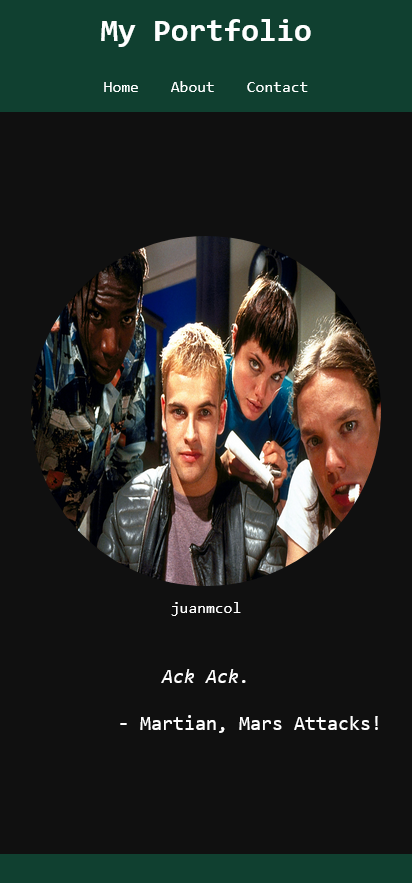
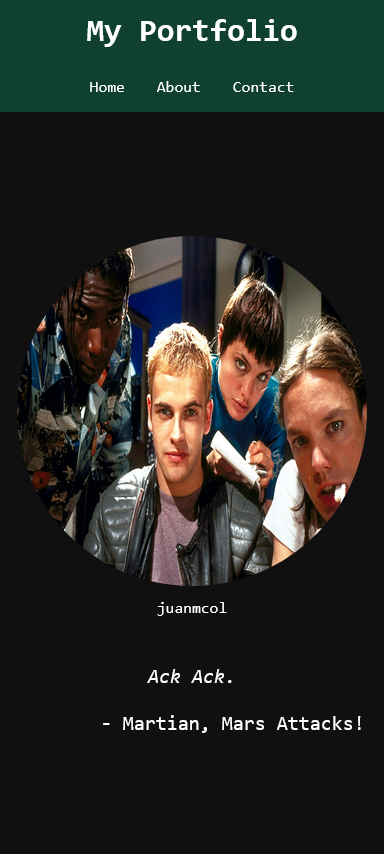
Fix the quote container's width and the contact page for mobile

diff --git a/src/css/styles.css b/src/css/styles.css
@@ -271,6 +271,12 @@ footer {
     footer {
         background-color: #104030;
     }
+
+    .contact {
+        table {
+            width: 50%;
+        }
+    }
 }
 
 @media only screen and (max-width: 50rem) {
@@ -296,7 +302,7 @@ footer {
         grid-area: 1/1/1/13;
 
         #quote-box {
-            width: min(22rem);
+            width: 90%;
         }
     }
     
@@ -330,5 +336,11 @@ footer {
 
     footer {
         background-color: #104030;
+    }
+
+    .contact {
+        table {
+            width: 100%;
+        }
     }
 }

diff --git a/README.md b/README.md
@@ -1,15 +1,11 @@
 # Personal Portfolio
 
 ## Project Details
-### 6th Commit! 
-
-Made the website more mobile-friendly.
+### Latest Commit! 
+Changed quote's width to percentage, instead of a fixed rem. That way it will adjust to any mobile device. Fixed the contact page for mobile.
 
 ### Previous Commit
-
-Added a responsive design and a click to expand feature for the table. Also made it so that if one resizes the window manually (e.g. on a desktop), then the table goes back to its original placement.
-
-Still some details that could be improved. Especially, on mobile. The font size may be too small right now. I'd have to see it on my phone or something to test it out.
+Made the website more mobile-friendly.
 
 Image used is from Hackers (1995).
 
